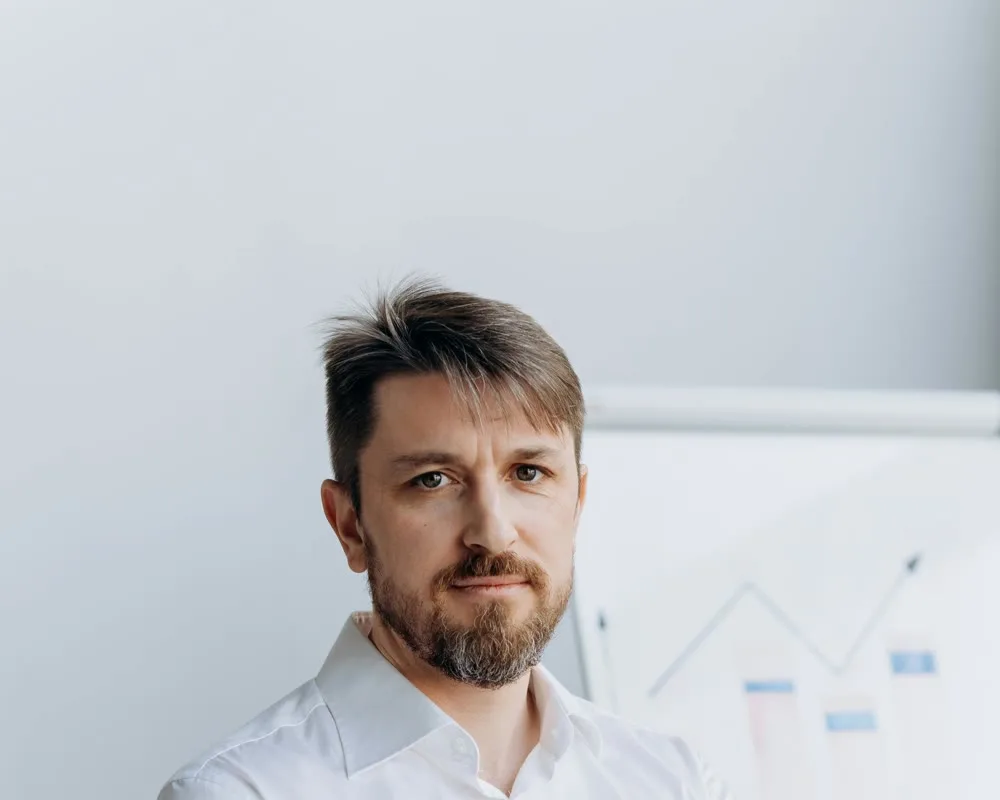
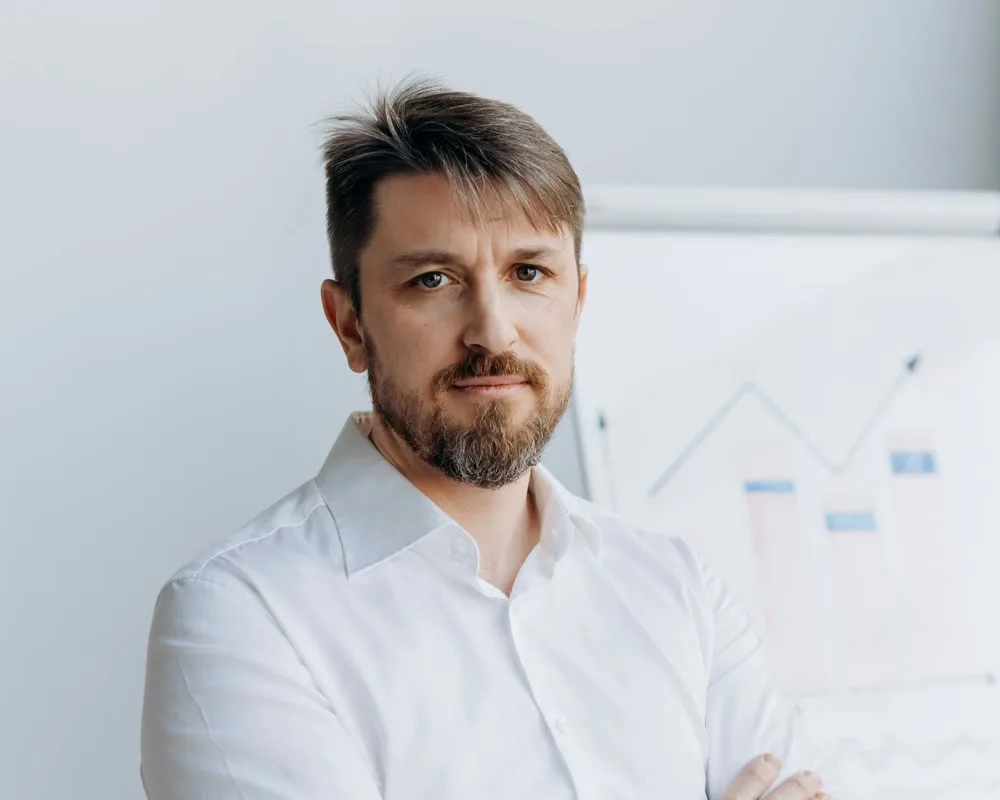
fix: Burak/Orkun story foto y-offset recrop — Pass 10 #11b
- Burak crop y=0 → y=800, Orkun y=0 → y=1200
- Ustten biraz kirp, alttan daha fazla govde/kontekst goster
- Cache-bust p10g → p10h (grup bump, Defne de dahil)
- TDD 40/40 PASS

diff --git a/index.html b/index.html
@@ -420,7 +420,7 @@ document.addEventListener('DOMContentLoaded', function(){
 
       <div class="stories-grid">
         <article class="story">
-          <div class="story-portrait"><img src="assets/v2/story-defne.webp?v=20260421p10g" alt="İşe Alım Uzmanı Defne K. portresi (temsili)"></div>
+          <div class="story-portrait"><img src="assets/v2/story-defne.webp?v=20260421p10h" alt="İşe Alım Uzmanı Defne K. portresi (temsili)"></div>
           <div class="story-body">
             <blockquote>İşe alım ekibine çok yeni katıldım ve Hello Talent'i deneyimleme fırsatım oldu. Açık pozisyonlarımız hızlı bir şekilde adaylarla eşleşiyor ve işe alım için ilan çıkmak zorunda kalmıyoruz. İşe alım yapmak çok daha keyifli hale geldi.</blockquote>
             <div class="story-meta">
@@ -431,7 +431,7 @@ document.addEventListener('DOMContentLoaded', function(){
         </article>
 
         <article class="story">
-          <div class="story-portrait"><img src="assets/v2/story-burak.webp?v=20260421p10g" alt="Talent Lead Burak M. portresi (temsili)"></div>
+          <div class="story-portrait"><img src="assets/v2/story-burak.webp?v=20260421p10h" alt="Talent Lead Burak M. portresi (temsili)"></div>
           <div class="story-body">
             <blockquote>Flagship mağazamız için müdür ihtiyacımız vardı ve Hello Talent sayesinde 40 aday bizimle eşleşti, 6'sıyla görüştük ve 1'ine teklif verdik. Rolü kapamak sadece 10 iş günümüzü aldı.</blockquote>
             <div class="story-meta">
@@ -442,7 +442,7 @@ document.addEventListener('DOMContentLoaded', function(){
         </article>
 
         <article class="story">
-          <div class="story-portrait"><img src="assets/v2/story-orkun.webp?v=20260421p10g" alt="CHRO Orkun portresi (temsili)"></div>
+          <div class="story-portrait"><img src="assets/v2/story-orkun.webp?v=20260421p10h" alt="CHRO Orkun portresi (temsili)"></div>
           <div class="story-body">
             <blockquote>Yönettiğimiz markalara Hello Talent profili açtık ve işe alım döngümüzün süresini kısalttık. Artık ekibimiz çok daha verimli çalışıyor ve markalarımızda çalışma motivasyonu yüksek kişileri işe alıyorlar.</blockquote>
             <div class="story-meta">
